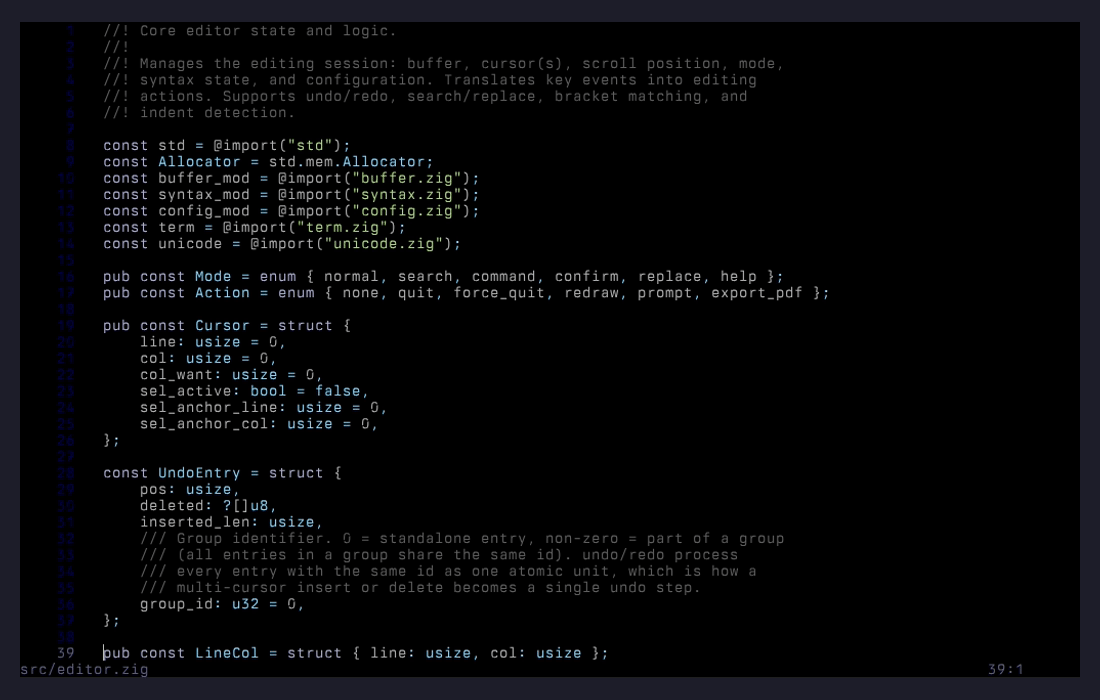
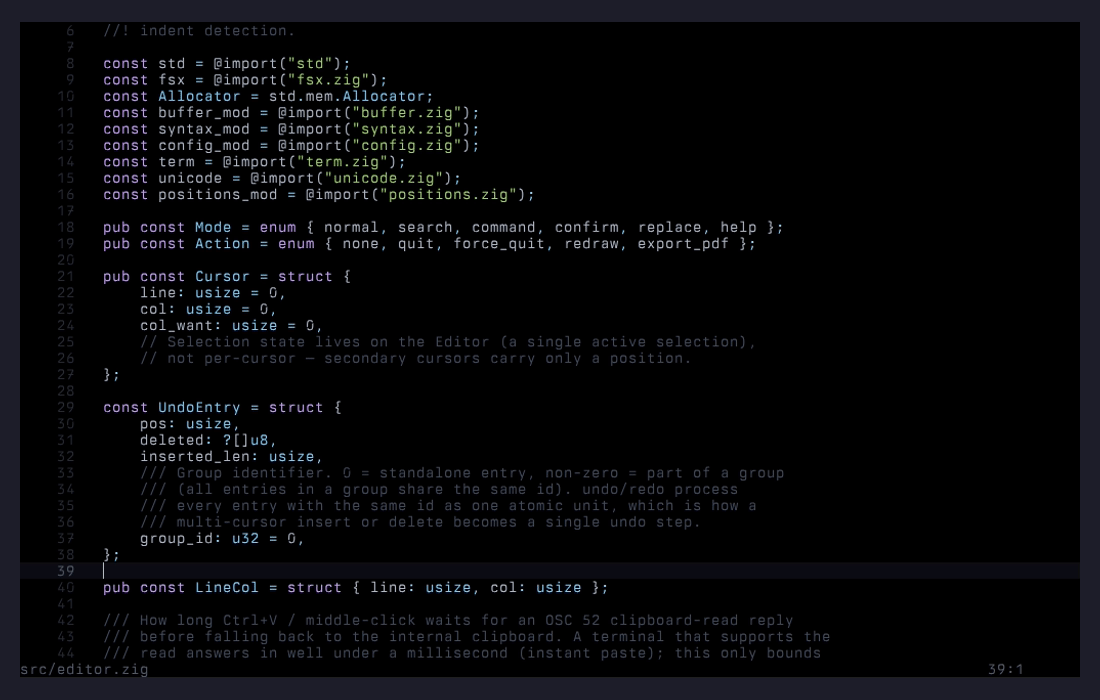
issy: refresh for v1.4.1 — clipboard, wide glyphs, rename, hardening, new screenshots
Claude-Session: https://claude.ai/code/session_01CYPiiokAENCHbtiwvhGvyR

Changed region(s): [[0.0927, 0.39, 0.7418, 0.96], [0.0927, 0.03, 0.7109, 0.36], [0.0309, 0.63, 0.0618, 0.66]]

diff --git a/content/projects/2026-04-issy.md b/content/projects/2026-04-issy.md
@@ -2,7 +2,7 @@
 title = "issy"
 slug = "issy"
 date = 2026-04-12
-updated = 2026-07-13
+updated = 2026-09-03
 description = "a nicer text editor."
 [extra]
   toc = true
@@ -10,7 +10,7 @@ description = "a nicer text editor."
 
 Source lives at [github.com/davidemerson/issy](https://github.com/davidemerson/issy).
 
-issy is a text editor that looks like a printed page, not a terminal application. It's written in Zig with zero external dependencies, runs on Linux, macOS, and OpenBSD, and ships as a single binary. No runtime, no package tree. Current release is v1.2.3.
+issy is a text editor that looks like a printed page, not a terminal application. It's written in Zig with zero external dependencies, runs on Linux, macOS, and OpenBSD, and ships as a single binary. No runtime, no package tree. Current release is v1.4.1.
 
 ### why
 
@@ -42,11 +42,11 @@ Headless from the command line:
 issy --font "Berkeley Mono.ttf" --print output.pdf source.py
 ```
 
-The print theme is tuned for ink on white paper and never inherits the TUI theme. Recommended fonts: Berkeley Mono, Iosevka, JetBrains Mono, Commit Mono.
+The print theme is tuned for ink on white paper and never inherits the TUI theme. Recommended fonts: Berkeley Mono, Iosevka, JetBrains Mono, Commit Mono. Font metrics are sanity-checked on load, so a malformed or hostile font can neither panic nor stall the export.
 
 ### multiple cursors
 
-`Ctrl+D` selects the word under the cursor and adds a cursor at the next occurrence. Press it again to keep adding. Every subsequent edit, whether typing, backspace, delete, or paste, applies to all cursors simultaneously, and `Ctrl+Z` undoes the whole multi-cursor tick as one step.
+`Ctrl+D` selects the word under the cursor and adds a cursor at the next occurrence. Press it again to keep adding. Each press arms a rename: the word is highlighted at every secondary cursor, and the first character you type replaces it everywhere in one shot. From there, every edit, whether typing, Enter, Tab, backspace, delete, or paste, applies at all cursors simultaneously, and `Ctrl+Z` undoes the whole multi-cursor tick as one step. Any non-typing key (an arrow, a paste) disarms the pending rename, so a later insert can never eat bytes at stale positions.
 
 {{ img(id="/images/issy/multi-cursor.gif", alt="multi-cursor rename demo") }}
 
@@ -62,17 +62,29 @@ The print theme is tuned for ink on white paper and never inherits the TUI theme
 
 {{ img(id="/images/issy/word-selection.gif", alt="word-wise keyboard selection demo") }}
 
-Copy and cut push to the OS clipboard via OSC 52, so yanking out of an SSH session lands in the host clipboard without extra plumbing (tmux wants `set -g set-clipboard on` first). Copies over 100KB stay internal-only with a status notice, because pasting a silently truncated clipboard somewhere else would be data corruption. Pastes from the terminal arrive as bracketed paste (DECSET 2004): during a paste, auto-indent is suppressed and tabs land as literal `\t`, so already-indented content comes in verbatim instead of compounding.
+### system clipboard
+
+Copy and cut push to the OS clipboard via OSC 52, so yanking out of an SSH session lands in the host clipboard without extra plumbing (tmux wants `set -g set-clipboard on` first). Copies over 100KB stay internal-only with a status notice, because pasting a silently truncated clipboard somewhere else would be data corruption.
+
+Since v1.3.0 the read direction works too. `Ctrl+V` asks the terminal for the system clipboard over OSC 52, so text copied in any other application pastes straight in, and middle-click pastes the primary selection the same way. The read is synchronous: issy emits the query, waits briefly for the reply, then inserts. If the terminal has OSC 52 read disabled (common over SSH, and some terminals allow the write but not the read), it falls back to issy's own internal clipboard, so nothing regresses. `system_clipboard = false` in `~/.issyrc` keeps `Ctrl+V` internal-only. The terminal's native paste keys, `Ctrl+Shift+V` and `Shift+Insert`, always work as well, arriving as a bracketed paste (DECSET 2004).
+
+However it arrives, a paste is captured as one verbatim blob and inserted as a single undo step. Auto-indent is suppressed, tabs land as literal `\t`, `\r\n` normalizes to `\n` (the buffer is LF-only in memory, and CRLF files get their endings back on save), and a newline inside the paste never confirms a prompt or submits a search. That last one fixed a real data-loss bug: pasting a multi-line snippet while the "discard unsaved changes?" prompt was up used to answer it.
+
+### wide glyphs
+
+CJK and emoji occupy two terminal cells; combining marks occupy none. Since v1.4.0 the renderer, cursor math, mouse mapping, soft-wrap, and horizontal scroll all measure display width per codepoint instead of assuming one cell per character, so wide text renders in place rather than as blanks, the cursor lands on the glyph you'd expect, and a click on either half of a wide glyph snaps to it. The bytes on disk were always right; only the screen was wrong.
+
+{{ img(id="/images/issy/wide-glyphs.png", alt="cjk and emoji in a markdown table with aligned columns") }}
 
 ### path completion
 
-`Ctrl+O` opens the file prompt seeded with the current directory. Type a partial directory or filename and press `Tab` to auto-complete against what's on disk.
+`Ctrl+O` opens the file prompt seeded with the current directory. Type a partial directory or filename and press `Tab` to auto-complete against what's on disk. The completion ghost shows the remainder with a `[Tab]` marker so it's clear what a press will fill in. The same prompt backs Save-As for a buffer with no filename.
 
 {{ img(id="/images/issy/path-completion.gif", alt="path completion in the open-file prompt") }}
 
 ### swap files
 
-While a buffer has unsaved changes, issy writes them to a sibling `.<name>.swp` file every couple of seconds, and removes it on save, reload, file switch, or clean exit (SIGTERM and SIGHUP shut down gracefully and clean up too). If issy (or your SSH session, or your laptop battery) dies with edits in flight, the next open of that file points you at the swap in the status bar. It never auto-loads the swap; it just tells you it's there. On by default, `swap_files = false` in `~/.issyrc` turns it off.
+While a buffer has unsaved changes, issy writes them to a sibling `.<name>.swp` file every couple of seconds, and removes it on save, reload, file switch, or clean exit (SIGTERM and SIGHUP shut down gracefully and clean up too). If issy (or your SSH session, or your laptop battery) dies with edits in flight, the next open of that file points you at the swap in the status bar. It never auto-loads the swap; it just tells you it's there. A clean quit only removes swaps this session wrote, so it can never destroy a crash-recovery swap left by a previous one. On by default, `swap_files = false` in `~/.issyrc` turns it off.
 
 Related: if the open file changes on disk underneath you (a `git pull`, another editor), the status bar says so within a second, even while issy sits idle. `Ctrl+R` reloads, with a confirm prompt if your buffer is dirty.
 
@@ -82,9 +94,9 @@ Quit a file and issy remembers the cursor position at `~/.cache/issy/positions.t
 
 ### quiet defaults
 
-Some behaviors are on by default because I always want them. Long lines soft-wrap at the right margin; the buffer itself is never modified. Opening a file scans the first 100 lines and, if more than 60% agree on tabs or spaces, overrides the configured indent style for that file. Trailing whitespace and indentation that doesn't match the detected file style get a faint highlight, quiet enough to ignore until you care. Matching `()[]{}` pairs highlight as the cursor moves.
+Some behaviors are on by default because I always want them. Long lines soft-wrap at the right margin; the buffer itself is never modified. Opening a file scans the first 100 lines and, if more than 60% agree on tabs or spaces, overrides the configured indent style for that file. Trailing whitespace and indentation that doesn't match the detected file style get a faint highlight, quiet enough to ignore until you care. Matching `()[]{}` pairs highlight as the cursor moves. Opening a file reads to real end-of-file rather than trusting `stat`, so files under `/proc` and `/sys` that report a size of zero open with their content.
 
-Save is atomic: issy writes a temp sibling, fsyncs, and renames it into place, following symlinks to rewrite the target and preserving permission bits. A crash mid-save can't leave you half a file.
+Save is atomic and honest about failure. issy writes a uniquely named `O_EXCL` temp sibling, fsyncs it, renames it into place (following symlinks to rewrite the target and preserving permission bits), and fsyncs the parent directory. An fsync failure propagates instead of being swallowed, so a truncated temp can never be renamed over the good file while the status bar says `Saved.`, and errors carry their reason (`Save failed: AccessDenied`). `Ctrl+S` works from every mode: inside search, replace, or the help overlay it saves and returns to normal, and at the unsaved-changes prompt it saves and stays.
 
 ### opt-in editing aids
 
@@ -102,7 +114,7 @@ Two behaviors I like but didn't want to force on anyone, both off by default:
 curl -sSL https://raw.githubusercontent.com/davidemerson/issy/main/install.sh | sh
 ```
 
-Drops `issy` at `~/.local/bin/issy`, verifies an Ed25519 signature over the release manifest against a public key baked into the script, verifies the binary's SHA-256 against that signed manifest, seeds `~/.issyrc` with commented defaults if you don't already have one, and wires up the opt-in auto-update path. Prebuilt binaries cover Linux amd64/arm64 and OpenBSD amd64. On platforms without a prebuilt (or when you invoke the installer on macOS), it falls through to `zig build -Doptimize=ReleaseSafe` from source.
+Drops `issy` at `~/.local/bin/issy`, verifies an Ed25519 signature over the release manifest against a public key baked into the script, verifies the binary's SHA-256 against that signed manifest, seeds `~/.issyrc` with commented defaults if you don't already have one, records the release it just installed in `~/.cache/issy` so the first launch doesn't advertise an update you already have, and wires up the opt-in auto-update path. Prebuilt binaries cover Linux amd64/arm64 and OpenBSD amd64. On platforms without a prebuilt (or when you invoke the installer on macOS), it falls through to `zig build -Doptimize=ReleaseSafe` from source, with either Zig 0.15.x or 0.16.x on `PATH`.
 
 Flags: `--prefix DIR` to relocate, `--version VER` to pin to a specific release, `--no-rc` to skip the `~/.issyrc` seed, `--help` for the rest. Prefer to read the script before piping it to a shell? Fetch it with `-o install.sh` and run it once you're happy.
 
@@ -115,23 +127,23 @@ brew tap davidemerson/issy https://github.com/davidemerson/issy
 brew install issy
 ```
 
-The formula tracks tagged releases (`vX.Y.Z`), so upgrades are just `brew upgrade issy`, the same one-liner you'd use for any Homebrew package. No `--fetch-HEAD`, no uninstall-and-reinstall dance. CI rewrites the formula's `url` and `sha256` on every tag push via a `release-tag` job, so the versioned formula stays current without manual edits, and it stamps the release commit into the build so `issy --version` reports the real SHA and update notifications work.
+The formula tracks tagged releases (`vX.Y.Z`), so upgrades are just `brew upgrade issy`, the same one-liner you'd use for any Homebrew package. No `--fetch-HEAD`, no uninstall-and-reinstall dance. CI rewrites the formula's `url` and `sha256` on every tag push via a `release-tag` job, so the versioned formula stays current without manual edits, and it stamps the release commit and its timestamp into the build so `issy --version` reports the real SHA and update notifications work.
 
 Want the bleeding edge between releases? `brew install --HEAD issy` still builds from `main`, and `brew upgrade --fetch-HEAD issy` pulls the latest commit.
 
-The formula pins its build dependency to `zig@0.15` rather than the unversioned `zig` formula. Homebrew bumped `zig` to 0.16, which broke the build; `zig@0.15` is pinned, carries Apple's Xcode 26.4 TBD compatibility patch, and won't move out from under us. The pin is kept in sync with the `ZIG_VERSION` used by CI.
+The formula pins its build dependency to `zig@0.15` rather than the unversioned `zig` formula, which is a moving target: Homebrew bumped it to 0.16 mid-cycle, and at the time that broke the build. issy itself builds on both series now, but the pin keeps Homebrew builds from moving out from under us, carries Apple's Xcode 26.4 TBD compatibility patch, and is kept in sync with the `ZIG_VERSION` used by CI.
 
 Prebuilt macOS binaries aren't shipped because cross-compiled Mach-O from Linux has no code signature and Apple Silicon refuses to run it. Homebrew, or the curl installer (which falls through to a source build on macOS), produces a native host-signed binary that runs on both Intel and Apple Silicon with no `xattr` or `codesign` workarounds.
 
 #### openbsd
 
-The curl installer downloads a prebuilt amd64 binary. Builds are verified on every push by a real OpenBSD 7.9 amd64 VM in CI (`openbsd-test` job); the full unit and integration suite must pass on OpenBSD before main accepts a merge. An `editors/issy` ports submission is in flight. Once it lands, `pkg_add issy` will be the preferred path.
+The curl installer downloads a prebuilt amd64 binary. Builds are verified on every push by a real OpenBSD 7.9 amd64 VM in CI (`openbsd-test` job); the full unit and integration suite must pass on OpenBSD before main accepts a merge. An `editors/issy` port was submitted to ports@openbsd.org at v1.3.1. Once it lands, `pkg_add issy` will be the preferred path.
 
 Building from source: `pkg_add zig` then `zig build -Doptimize=ReleaseSafe`. `bash` and `expect` (also via `pkg_add`) are needed if you want to run the integration test suite.
 
 #### build from source
 
-Requires [Zig 0.15.x](https://ziglang.org/download/) (0.15.2 recommended). Zig 0.16 changed the std APIs issy depends on, so `build.zig` rejects it at compile time with an actionable error instead of a page of inscrutable ones.
+Requires [Zig 0.15.x or 0.16.x](https://ziglang.org/download/); CI exercises 0.15.2 and 0.16.0. Zig 0.16 moved most of `std.fs` under `std.Io` with an explicit capability argument and dropped a handful of `std.posix` calls. Rather than thread an Io handle through the editor, `src/fsx.zig` wraps the thirty-odd file, environment, and process operations issy uses and dispatches at comptime on the toolchain version, so the same source builds on both series. Anything outside them is rejected at compile time with an actionable error instead of a page of inscrutable ones.
 
 ```
 git clone https://github.com/davidemerson/issy
@@ -160,6 +172,7 @@ issy [options] [file[:line]]
 
 issy main.zig
 issy src/editor.zig:42    # open at line 42
+issy draft.md:5           # works for new files too: creates draft.md
 issy newdoc.md            # start a new file at that path
 issy                      # empty buffer
 ```
@@ -183,10 +196,12 @@ The ones you'd expect, mostly.
 
 | Key | Action |
 |-----|--------|
-| Ctrl+S | Save (a buffer with no filename prompts for a path, with Tab completion) |
-| Ctrl+Q / Ctrl+W | Quit (on unsaved changes, Enter or Ctrl+Q again discards; Escape cancels) |
+| Ctrl+S | Save, from any mode (a buffer with no filename prompts for a path, with Tab completion) |
+| Ctrl+Q / Ctrl+W | Quit (on unsaved changes: Enter or Ctrl+Q again discards, Ctrl+S saves and stays, Escape cancels) |
 | Ctrl+Z / Ctrl+Y | Undo / redo (typing runs coalesce within 500ms, one step per word) |
-| Ctrl+C / Ctrl+X / Ctrl+V | Copy / cut / paste (copy and cut also push to the OS clipboard via OSC 52) |
+| Ctrl+C / Ctrl+X | Copy / cut (also push to the OS clipboard via OSC 52) |
+| Ctrl+V | Paste the system clipboard via OSC 52 (falls back to the internal clipboard if the terminal won't answer) |
+| Ctrl+Shift+V / Shift+Insert | Terminal-native paste of the clipboard / primary selection, as bracketed paste |
 | Ctrl+A | Select all |
 | Ctrl+F | Incremental search (Tab toggles whole-word, Up/Down walk matches) |
 | Ctrl+G | Find next match |
@@ -196,15 +211,17 @@ The ones you'd expect, mostly.
 | Ctrl+P | Export to PDF |
 | Ctrl+R | Reload file from disk |
 | Ctrl+L | Go to line |
-| Ctrl+D | Add cursor at next occurrence of word |
+| Ctrl+D | Add cursor at next occurrence of word (and arm a rename) |
 | Ctrl+Left / Ctrl+Right | Jump by word |
 | Shift+Arrow | Extend selection by character |
 | Ctrl+Shift+Left / Right | Extend selection by word |
 | Ctrl+/ or F1 | Show keybindings overlay |
 
+Middle-click pastes the primary selection at the click point.
+
 ### configuration
 
-The installer seeds `~/.issyrc` on first run with every setting commented out, so you can see what's available and uncomment what you want. Unknown keys are ignored; missing keys fall back to compiled-in defaults. The editor watches `~/.issyrc` for mtime changes and reloads live, so edits to config land in the running editor without a restart. The full reference is in [CONFIGURATION.md](https://github.com/davidemerson/issy/blob/main/CONFIGURATION.md) in the repo. A minimal example:
+The installer seeds `~/.issyrc` on first run with every setting commented out, so you can see what's available and uncomment what you want. Unknown keys are ignored; missing keys fall back to compiled-in defaults. The editor watches `~/.issyrc` for mtime changes and reloads live, so edits to config land in the running editor without a restart. The reload is debounced until the new mtime has held still for a full tick, so a half-written file from a non-atomic external save is never applied. The full reference is in [CONFIGURATION.md](https://github.com/davidemerson/issy/blob/main/CONFIGURATION.md) in the repo. A minimal example:
 
 ```
 tab_width = 4
@@ -217,7 +234,7 @@ font_file = "/path/to/font.ttf"
 [theme.paper]
 ```
 
-Newer keys worth knowing about: `swap_files` (on by default, see above), `auto_close_brackets` and `wrap_indent` (opt-in, see above), and `autoupdate` (below).
+Newer keys worth knowing about: `swap_files` and `system_clipboard` (both on by default, see above), `auto_close_brackets` and `wrap_indent` (opt-in, see above), and `autoupdate` (below).
 
 ### syntax highlighting
 
@@ -227,33 +244,41 @@ Multi-line constructs carry across lines: C block comments, Python triple-quoted
 
 ### auto update
 
-Release builds check for newer versions on startup. The check is a one-shot HTTPS request to a `commit.txt` asset on the latest GitHub release, made by a detached grandchild process so the editor itself never blocks on the network. If the commit SHA on the release differs from the one the running binary was built from, the footer shows `update available: <sha>`. Dev builds skip the check entirely; only builds stamped as releases (a build from a clean tree, CI, or the Homebrew stable formula) participate.
+Release builds check for newer versions on startup. The check is a one-shot HTTPS request to a `commit.txt` asset on the latest GitHub release (the release commit and its timestamp), made by a detached grandchild process so the editor itself never blocks on the network. If that release is newer than the running binary, compared by commit timestamp rather than by a merely different SHA, the footer shows `update available: <sha>`. The distinction matters: a stale cache left over from a manual `brew upgrade` used to advertise the very version you'd just replaced. Dev builds skip the check entirely; only builds stamped as releases (a build from a clean tree, CI, or the Homebrew stable formula) participate.
 
 By default the editor only notifies. Opt into automatic download and in-session apply with `autoupdate = true` in `~/.issyrc`. One platform caveat: there are no prebuilt macOS binaries, so on macOS the worker has nothing to stage. You get the notify footer, and `brew upgrade issy` does the rest. Elsewhere, with auto-apply on:
 
-1. The background worker downloads `sha256sums.txt` and its Ed25519 signature, verifies the signature against the public key embedded in `src/update_key.zig`, and checks the manifest's embedded commit binding and monotonic epoch. A replayed older release, authentic but stale, is rejected as a downgrade. Then it downloads the platform-specific binary and checks it against the signed manifest.
+1. The background worker downloads `sha256sums.txt` and its Ed25519 signature, verifies the signature against the public key embedded in `src/update_key.zig`, and checks the manifest's embedded commit binding and monotonic epoch. A replayed older release, authentic but stale, is rejected as a downgrade. Then it downloads the platform-specific binary and checks it against the signed manifest. It declines to stage anything that isn't strictly newer, and when the binary isn't writable by you (a root-owned or distro-packaged install) it downloads nothing at all: the check stays notify-only, with no wasted bandwidth and no recurring failure notice.
 2. The verified binary is staged under `~/.cache/issy/issy.staged` and the footer switches to `update staged: <sha>`.
-3. Next time the buffer is clean and the editor has been idle for 60 seconds, it re-verifies the staged binary against the cached signed manifest, writes a small resume record, snapshots the current binary to `~/.cache/issy/issy.prev`, atomically renames the staged binary over its own executable, tears down the terminal, and `execve()`s the new binary with `--resume <path>`. The terminal state survives `execve`, so the visible effect is a single re-render and the cursor lands back where it was.
-4. If anything goes wrong (non-writable binary, signature mismatch, dirty buffer, failed rename) the editor falls back to notify-only and keeps running the old version.
+3. Next time the buffer is clean and the editor has been idle for 60 seconds, it re-verifies the staged binary against the cached signed manifest, including a check that the release it names is strictly newer than the running build (an authentic but older staged binary is refused rather than installed as a downgrade). It then writes a small resume record, snapshots the current binary to `~/.cache/issy/issy.prev`, atomically renames the staged binary over its own executable (falling back to a copy-and-rename inside the target directory when the cache lives on a different filesystem), tears down the terminal, and `execve()`s the new binary with `--resume <path>` plus whatever `--config`, `--theme`, `--font`, or `--no-config` flags you launched with. The terminal state survives `execve`, so the visible effect is a single re-render and the cursor lands back where it was.
+4. If anything goes wrong (non-writable binary, signature mismatch, dirty buffer, failed rename) the editor falls back to notify-only for the rest of the session and keeps running the old version.
 
 The signing private key is held as a GitHub Actions secret and only the repo's CI workflow can sign releases. A tampered manifest or binary fails signature verification and staging aborts. The worker runs as the editor's user, not root, and refuses to operate on root-owned install paths (so a root-owned `/usr/bin/issy` silently stays in notify-only mode).
 
-To roll back after an apply: `issy --rollback` swaps the previous binary back in a one-shot atomic rename, after verifying the snapshot against the checksum recorded at apply time.
+To roll back after an apply: `issy --rollback` swaps the previous binary back in a one-shot atomic rename, after verifying the snapshot against the checksum recorded at apply time. That check fails closed: a checksum sidecar that exists but doesn't parse or match refuses the rollback rather than proceeding unchecked.
+
+The whole chain is covered end to end. `build.zig` can generate test-only seams (a base URL, a public key, an idle threshold) that let an integration suite drive a real update against a loopback fixture server signed with a throwaway key. A plain `zig build` rewrites those seams to null on every configure, so they fold away at comptime and cannot reach a release binary; an override build stamps `test-update` into `--version`, which the suite asserts is absent from the shipped binary.
 
 If you'd rather not think about any of this, `notify_updates = false` disables the check entirely.
 
 ### hardening
 
-Between v1.1.0 and v1.2.3, issy went through four adversarial audits: independent review agents combing the code for crashes, data loss, and hostile-input problems, with every finding fixed and pinned by a regression test. Some favorites from the pile:
+Between v1.1.0 and v1.4.1, issy went through repeated rounds of adversarial audits: independent review agents combing the code for crashes, data loss, and hostile-input problems, with every confirmed finding fixed and pinned by a regression test. Some favorites from the pile:
 
 - Selections larger than 4KB that straddled the gap buffer's gap smashed a fixed stack scratch buffer.
 - Undo and redo stacks survived opening a new file, so replaying them applied old-buffer offsets to new-buffer content. They now clear on every buffer swap.
 - Undoing an edit that shrank the buffer left a selection anchored at a stale offset, so the next typed character deleted an unrelated range. A keyboard-only path to silent data loss.
-- A crafted font with `units_per_em = 0` drove every metric through a divide by zero and hard-panicked PDF export. Out-of-spec values now clamp to the em-square default.
+- An fsync failure during save was swallowed, so a truncated temp file could be renamed over the good copy while the status bar reported `Saved.`.
+- Backspacing a non-ASCII character with multiple cursors deleted exactly one byte per cursor, leaving dangling UTF-8 lead bytes that `Ctrl+S` then wrote to disk.
+- A newline inside a pasted snippet answered the discard-unsaved-changes prompt. Paste is now inert text in every mode.
+- The undo cap could evict entries from an operation still in progress (a replace-all with more matches than the cap), leaving it silently half-undoable.
+- An authentic manifest for an older release passed the signature and hash checks perfectly, so after a manual upgrade the next idle minute could reinstall the release you'd just upgraded away from.
+- A crafted font with `units_per_em = 0` drove every metric through a divide by zero and hard-panicked PDF export; another declaring `ascender = 32767` and `descender = -32768` overflowed unwidened `i16` arithmetic and panicked in ReleaseSafe, the mode users actually run. Out-of-spec values now clamp, and the math is widened.
 - A symlink planted at the swap-file path could redirect the autosave onto a victim file. Swap writes now open with `O_NOFOLLOW`.
 - A pasted (or hostile) mouse escape sequence with oversized parameters overflow-panicked the terminal parser. Params now saturate, and runaway CSIs are bounded.
+- Only SIGTERM and SIGHUP had handlers, so a real SIGSEGV left the terminal in raw mode on the alternate screen with the crash message invisible. Fatal signals now restore the terminal and re-raise, preserving the exit status and core dump.
 
-The same passes bought a panic handler and SIGTERM/SIGHUP handlers that restore the terminal on every exit path, escape-sequence parsing that survives sequences split across reads (SSH), and CRLF files that normalize to LF in memory and round-trip byte-for-byte on save.
+The same passes bought a panic handler that restores the terminal on every exit path, escape-sequence parsing that survives sequences split across reads (SSH), the same bounded retry for a multi-byte character split across reads (so a typed `é` on a laggy link can't decode as two replacement characters), and CRLF files that normalize to LF in memory and round-trip byte-for-byte on save.
 
 ### architecture and tests
 
@@ -263,7 +288,7 @@ Tests run in two layers:
 
 ```
 zig build test              # unit tests: gap buffer, unicode, tokenizer, editor ops, search, update verification
-bash tests/run_tests.sh     # 15 integration suites via expect
+bash tests/run_tests.sh     # 25 integration suites via expect
 ```
 
-There are 252 distinct unit tests; the runner reports over a thousand because each source file compiles as its own test unit and re-runs the modules it imports. The integration suite launches the real binary in a PTY, sends keystrokes, and verifies outcomes by checking saved file contents. It's slower than pure unit tests but it catches the kind of bug where the editor thinks it saved a file but actually didn't. The OpenBSD CI job runs the same suites inside a real OpenBSD 7.9 amd64 VM on every push, so OpenBSD isn't a "should work" target. It's a gate.
+There are 304 distinct unit tests; the runner reports well over a thousand because each source file compiles as its own test unit and re-runs the modules it imports. The integration suite launches the real binary in a PTY under a scratch `HOME` so it can't touch real state, sends keystrokes, and verifies outcomes by checking saved file contents; a hang is converted into a kill and a `FAIL` rather than a stall. It's slower than pure unit tests but it catches the kind of bug where the editor thinks it saved a file but actually didn't. The OpenBSD CI job runs the same suites inside a real OpenBSD 7.9 amd64 VM on every push, and the Linux job runs them on both Zig 0.15.2 and 0.16.0, so neither OpenBSD nor the newer toolchain is a "should work" target. They're gates.
